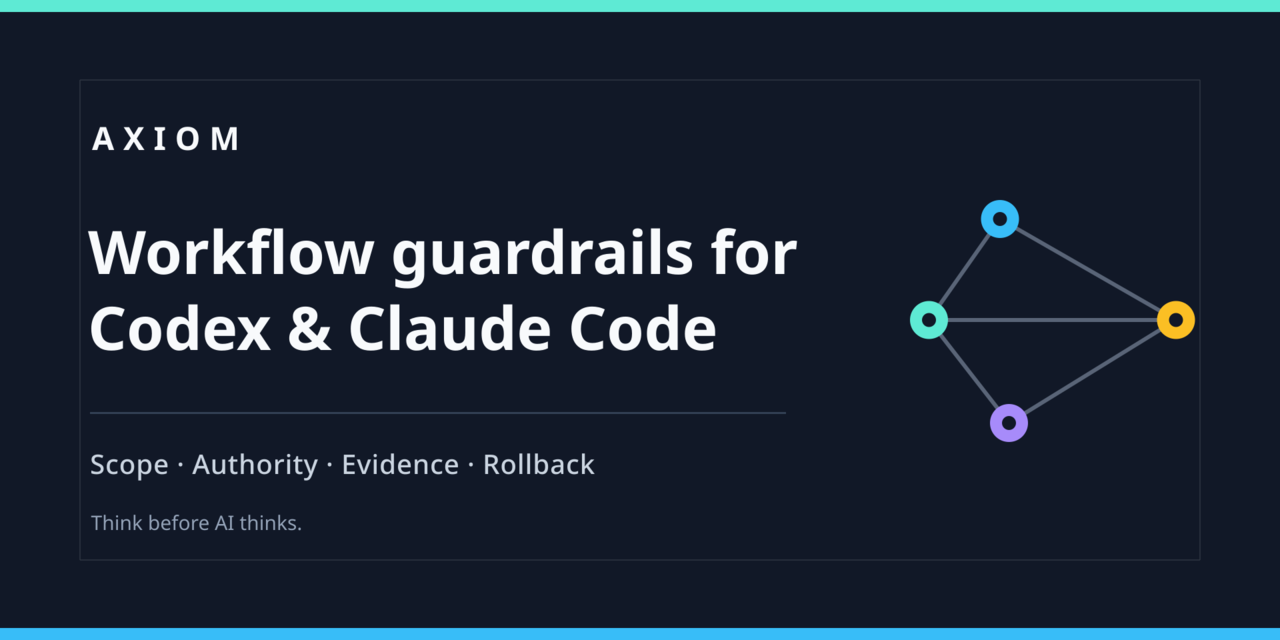
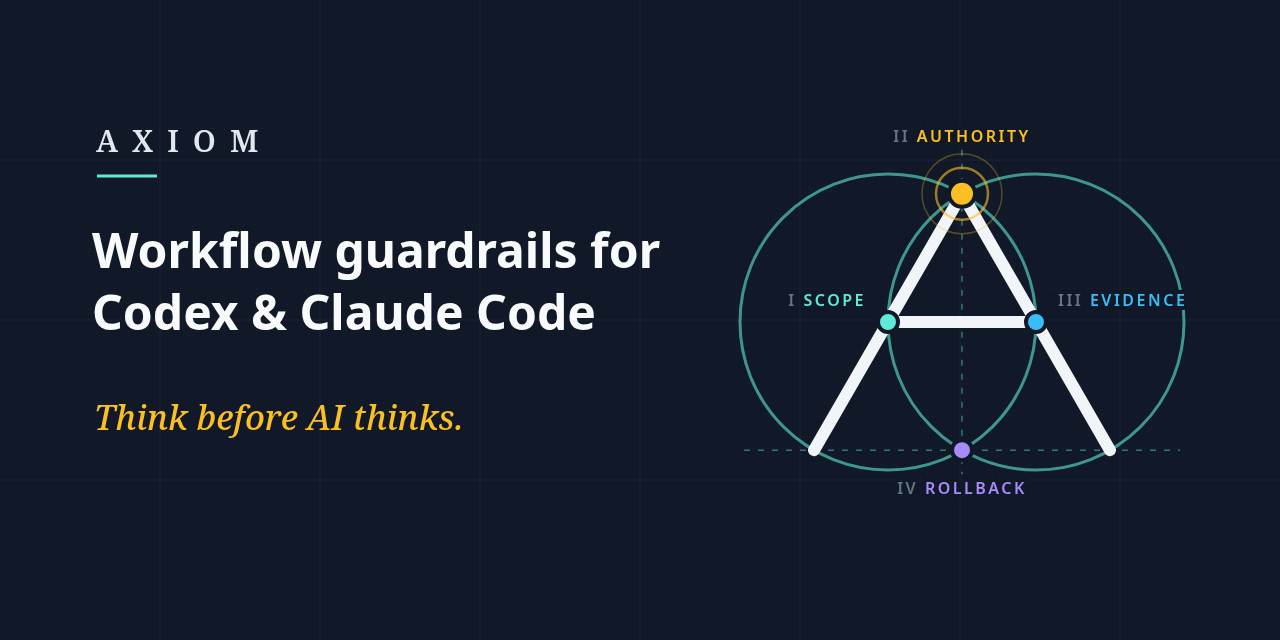
docs: redraw the brand images as Euclid's construction of the letter A (#206)
Remote baseline: origin/main @ 40cd9954fb200e4a9b1bfcbecb601fbe3ac00e77

Scope:
The README hero image, which is also the social preview, and the Codex
plugin mark showed a four-node graph unrelated to the name. Both now
draw the letter A as the first construction of Euclid's Elements: two
circles that pass through each other's centers. The four construction
points mark scope, authority, evidence, and rollback in the existing
brand colors. The README text, the manifests, and the brand colors are
unchanged; the mark stays a square, font-free SVG within the manifest
asset rules, and the hero PNG is rendered from its SVG source.

This is repository policy revision 105; the plugin version and runtime
digest are unchanged.

Validation:
In a disposable copy holding this exact tree, check-publication passed,
including the manifest asset checks of the new mark, unittest discovery
ran 297 tests with one Windows-only skip, and git diff --check was
clean. The mark was inspected at 16 to 512 pixels on light and dark
backgrounds.

diff --git a/CHANGELOG.md b/CHANGELOG.md
@@ -6,6 +6,20 @@ For versions after `0.10.0`, each new entry states what changed, the behavioral 
 
 A version heading names the UTC date on which its GitHub Release was published, or states that the version was tagged without a GitHub Release. An entry keeps `unreleased` until that Release is published, so the tagged entry still reads `unreleased`; the rendered Release body omits the heading, and dating it later changes neither the entry nor that body. Headings before 0.8.3 keep the dates recorded when they were written.
 
+## Repository policy revision 105
+
+### Changed
+
+- The README hero image, which is also the social preview, and the Codex plugin mark now draw the letter A as the first construction of Euclid's Elements: two circles that pass through each other's centers. Its four construction points mark scope, authority, evidence, and rollback in the existing brand colors.
+
+### Behavioral impact
+
+None for installed plugin workflows. Codex shows the new mark once a later release includes it.
+
+### Required action
+
+None.
+
 ## Repository policy revision 104
 
 ### Changed

diff --git a/docs/runtime-identity.md b/docs/runtime-identity.md
@@ -6,7 +6,7 @@ Axiom separates installed plugin behavior from repository maintenance. The [mach
 
 <!-- runtime-identity:current:start -->
 - `pluginVersion`: `0.20.0`
-- `repositoryPolicyRevision`: `104`
+- `repositoryPolicyRevision`: `105`
 - `runtimeContractDigest` (schema v4): `sha256:6852a0b9101693f3c410b84d445ad04d1e55696cf8bcf8da61d5c96bfcac25a3`
 - Digest input manifest: [`axiom_validation/runtime-contract-inputs-v4.json`](../axiom_validation/runtime-contract-inputs-v4.json)
 <!-- runtime-identity:current:end -->
